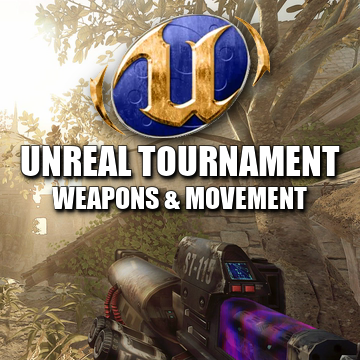
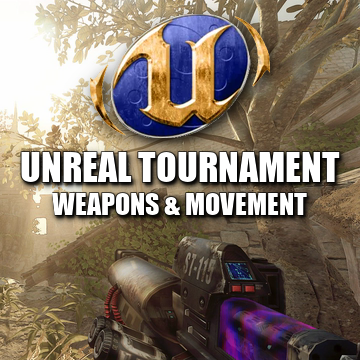
Workshop preview: the mod's name is 6 pixels lower (build 1749)

Changed region(s): [[0.0306, 0.3972, 0.9472, 0.6417]]

diff --git a/unreal_tournament/tools/asset_conversion/make_item_preview.py b/unreal_tournament/tools/asset_conversion/make_item_preview.py
@@ -16,7 +16,7 @@ SIZE = 360  # pixels, as the framework's default preview
 CROP_X = 840  # the left edge of the square taken from the screenshot, in its pixels: the right of it, with the weapon
 LOGO_WIDTH = 180
 LOGO_Y = 14
-LINES = [('UNREAL TOURNAMENT', 38, 146), ('WEAPONS & MOVEMENT', 28, 187)]  # text, size, top
+LINES = [('UNREAL TOURNAMENT', 38, 152), ('WEAPONS & MOVEMENT', 28, 193)]  # text, size, top
 
 
 def largest_picture(ico):
